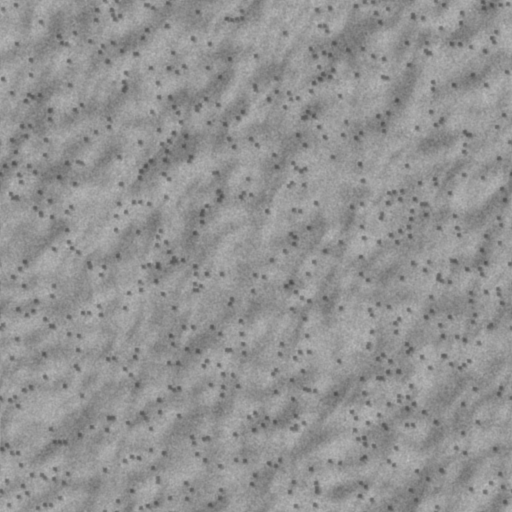
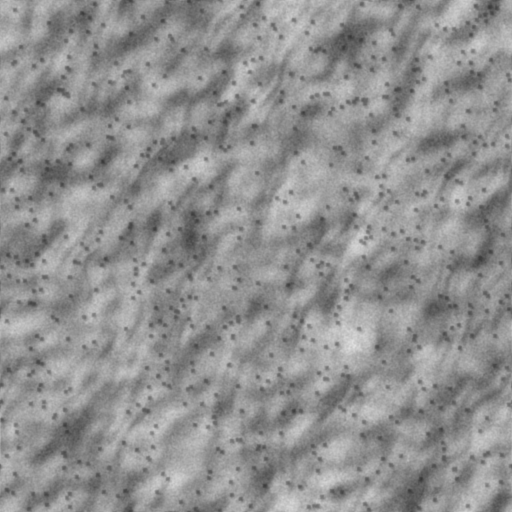
City miniatures: dense street-grid fabric, big central landmark, tighter frame; coastal water band without island halos or deep pockets; smooth coastlines; stronger ground texture
Claude-Session: https://claude.ai/code/session_014nGi4eSs3FWdL2Rsq4Dqkd

diff --git a/app/world/index.html b/app/world/index.html
@@ -79,35 +79,51 @@ async function buildTile(z, tx, ty, C) {
   const c = document.createElement('canvas'); c.width = c.height = C;
   const g = c.getContext('2d', {willReadFrequently: true});
   g.imageSmoothingEnabled = false; g.drawImage(natI, 0, 0, C, C); const nd = g.getImageData(0, 0, C, C).data;
+  // smooth land mask: the id image upscaled with smoothing, so coasts are clean curves, never pixel stairs
+  const N0 = natI.width, mc = document.createElement('canvas'); mc.width = mc.height = N0;
+  const mg = mc.getContext('2d', {willReadFrequently: true}); mg.drawImage(natI, 0, 0);
+  const mi = mg.getImageData(0, 0, N0, N0), md = mi.data;
+  for (let q = 0; q < md.length; q += 4) { const land = md[q] + md[q + 1] > 0; md[q] = md[q + 1] = md[q + 2] = land ? 255 : 0; md[q + 3] = 255; }
+  mg.putImageData(mi, 0, 0);
   g.imageSmoothingEnabled = true; g.imageSmoothingQuality = 'high';
+  g.drawImage(mc, 0, 0, C, C); const ms = g.getImageData(0, 0, C, C).data;
   g.drawImage(lumI, 0, 0, C, C); const ld = g.getImageData(0, 0, C, C).data;
   g.drawImage(bioI, 0, 0, C, C); const bd = g.getImageData(0, 0, C, C).data;
   const out = g.createImageData(C, C), d = out.data;
   const {FN, fl, fa, fv, open, arid, rock, wave, WN} = TEX;
   const gx0 = tx * C, gy0 = ty * C;
   const lut = {};
+  const idAt = (x, y) => { x = Math.max(0, Math.min(C - 1, x)); y = Math.max(0, Math.min(C - 1, y)); const q = (y * C + x) * 4; return nd[q] + nd[q + 1] * 256 - 1; };
   for (let y = 0; y < C; y++) {
     const gy = gy0 + y, fr = (gy % FN) * FN, gr = (gy & 511) * 512, wr = (gy % WN) * WN;
     for (let x = 0; x < C; x++) {
       const q = (y * C + x) * 4, gx = gx0 + x;
-      const n = nd[q] + nd[q + 1] * 256 - 1;
+      const m = ms[q];                                          // 0 sea .. 255 land, soft at the coast
+      let n = nd[q] + nd[q + 1] * 256 - 1;
       const L = ld[q] / 127.5;                                  // 1.0 = no extra light or shade
-      if (n < 0) {                                              // sea: coastal grey-blue or deep blue, ripples, land shadow
-        const base = bd[q] > 127 ? SEA.coast : SEA.deep, k = L * wave[wr + gx % WN];
-        d[q] = base[0] * k; d[q + 1] = base[1] * k; d[q + 2] = base[2] * k; d[q + 3] = 255;
-        continue;
+      let sr = 0, sg = 0, sb = 0;
+      if (m < 170) {                                            // sea: coastal grey-blue or deep blue, ripples, land shadow
+        const base = bd[q] > 127 || m > 0 ? SEA.coast : SEA.deep, k = L * wave[wr + gx % WN];
+        sr = base[0] * k; sg = base[1] * k; sb = base[2] * k;
+        if (m < 86) { d[q] = sr; d[q + 1] = sg; d[q + 2] = sb; d[q + 3] = 255; continue; }
+      }
+      if (n < 0) {                                              // land by the smooth mask but sea by the id image: borrow a neighbour's id
+        for (let r = 1; r < 6 && n < 0; r++) n = Math.max(idAt(x - r, y), idAt(x + r, y), idAt(x, y - r), idAt(x, y + r));
+        if (n < 0) { d[q] = sr; d[q + 1] = sg; d[q + 2] = sb; d[q + 3] = 255; continue; }
       }
       const gi = gr + (gx & 511), ar = bd[q + 1] / 255, rk = bd[q + 2] / 255;
       let v = open[gi] * (1 - ar) + arid[gi] * ar;
       v = v * (1 - rk) + rock[gi] * rk;
       const fi = fr + gx % FN, a = fa[fi];
       if (a) {                                                  // a tree (or its shadow) stands here if the forest is dense enough
-        const dens = bd[q] / 255 * 1.15, tv = fv[fi] / 255;
-        if (tv ? dens > tv : dens > 0.5) { const al = a / 255; v = v * (1 - al) + fl[fi] * al; }
+        const dens = bd[q] / 255, tv = fv[fi] / 255;
+        if (tv ? dens > tv : dens > 0.55) { const al = a / 255; v = v * (1 - al) + fl[fi] * al; }
       }
       const t = lut[n] || (lut[n] = LUT[relOf(n)]);
-      const i = Math.min(255, v * L) * 3;
-      d[q] = t[i | 0]; d[q + 1] = t[(i | 0) + 1]; d[q + 2] = t[(i | 0) + 2]; d[q + 3] = 255;
+      const i = (Math.min(255, v * L) | 0) * 3;
+      if (m >= 170) { d[q] = t[i]; d[q + 1] = t[i + 1]; d[q + 2] = t[i + 2]; }
+      else { const w = (m - 86) / 84; d[q] = sr + (t[i] - sr) * w; d[q + 1] = sg + (t[i + 1] - sg) * w; d[q + 2] = sb + (t[i + 2] - sb) * w; }
+      d[q + 3] = 255;
     }
   }
   g.putImageData(out, 0, 0);

diff --git a/ci/render/citymarks.py b/ci/render/citymarks.py
@@ -13,8 +13,8 @@ src = open(spec.origin).read().split('\nonly = set(')[0]
 G = {'__name__': 'bld', '__file__': spec.origin}
 exec(compile(src, spec.origin, 'exec'), G)
 reset, mat, box, cyl, sphere_cap, gable, Kit, REGIONS = G['reset'], G['mat'], G['box'], G['cyl'], G['sphere_cap'], G['gable'], G['Kit'], G['REGIONS']
-FRAME = 150.0
-ELEV = 52                      # a model on a table: you see roofs and facades
+FRAME = 118.0
+ELEV = 42                      # a model on a table: you see roofs and facades
 
 def cone(x, y, z, r, h, m, verts=16):
     bpy.ops.mesh.primitive_cone_add(vertices=verts, radius1=r, radius2=0.0, depth=h, location=(x, y, z + h / 2))
@@ -60,45 +60,41 @@ def pagoda(k, x, y, s=1.0):
 
 LANDMARK = {'gulf': mosque, 'europe': cathedral, 'americas': capitol, 'asia': pagoda}
 
-def skyline(k, R, rnd, n, hmax, spread, avoid=0):
-    glass = mat((0.42, 0.50, 0.56), 0.25, metal=0.3)
-    for i in range(n):
-        for _ in range(30):
-            a = rnd.random() * 6.283; d = avoid + rnd.random() ** 0.7 * spread
-            x, y = math.cos(a) * d, math.sin(a) * d * 0.9
-            if abs(x) < 70 and abs(y) < 70: break
-        f = 1 - d / (avoid + spread + 1)
-        h = 6 + hmax * f * rnd.uniform(0.5, 1.0)
-        w = rnd.uniform(7, 12); dd = rnd.uniform(7, 12)
-        m = glass if h > 30 and rnd.random() < 0.6 else (k.white if rnd.random() < 0.5 else mat(R['wall'], 0.7))
-        box(x, y, 0, w, dd, h, m, bevel=0.15)
-        if h > 18: box(x, y, h, w * 0.6, dd * 0.6, 1.4, k.white, bevel=0.1)
-
-def houses(k, R, rnd, n, spread, avoid=0):
+def fabric(k, R, rnd, radius, hc, he, clear=0.0, tall_glass=True):
+    """dense city on a street grid: tall in the middle, low at the edge, blocks touching, narrow streets"""
+    glass = mat((0.40, 0.48, 0.54), 0.25, metal=0.3); wall = mat(R['wall'], 0.75); wall2 = mat(R['wall2'], 0.75)
     roof = mat(R['roof'], 0.7)
-    for i in range(n):
-        a = rnd.random() * 6.283; d = avoid + rnd.random() * spread
-        x, y = math.cos(a) * d, math.sin(a) * d * 0.9
-        w, dd = rnd.uniform(6, 10), rnd.uniform(6, 9); h = rnd.uniform(3, 7)
-        rot = rnd.choice((0, 90)) + rnd.uniform(-8, 8)
-        box(x, y, 0, w, dd, h, mat(R['wall'], 0.75), bevel=0.12, rot=rot)
-        if R['roof_kind'] == 'gable': gable(x, y, h, w, dd, 2.6, roof, rot=rot, overhang=0.3)
-    for i in range(n // 2):
-        a = rnd.random() * 6.283; d = avoid + rnd.random() * spread * 1.1
-        k.plant(math.cos(a) * d, math.sin(a) * d * 0.9)
+    lot, street = 9.0, 2.6
+    n = int(radius / lot) + 1
+    for i in range(-n, n + 1):
+        for j in range(-n, n + 1):
+            x, y = i * lot + rnd.uniform(-0.6, 0.6), j * lot + rnd.uniform(-0.6, 0.6)
+            d = math.hypot(x, y) / radius
+            if d > 1 or math.hypot(x, y) < clear: continue
+            if d > 0.75 and rnd.random() < (d - 0.75) * 3: continue          # ragged edge
+            f = (1 - d) ** 1.6
+            h = he + (hc - he) * f * rnd.uniform(0.55, 1.0)
+            w = lot - street - rnd.uniform(0, 1.5); dd = lot - street - rnd.uniform(0, 1.5)
+            if h < 9 and R['roof_kind'] == 'gable':
+                box(x, y, 0, w, dd, h, wall, bevel=0.1); gable(x, y, h, w, dd, 2.4, roof, overhang=0.2)
+            else:
+                m = glass if (tall_glass and h > 26 and rnd.random() < 0.7) else (wall if rnd.random() < 0.6 else wall2)
+                box(x, y, 0, w, dd, h, m, bevel=0.12)
+                if h > 16: box(x, y, h, w * 0.55, dd * 0.55, 1.5, k.white, bevel=0.1)    # roof plant room
+    for _ in range(int(radius * 0.8)):                                     # trees in the street gaps at the edge
+        a = rnd.random() * 6.283; r = radius * rnd.uniform(0.7, 1.05)
+        k.plant(math.cos(a) * r, math.sin(a) * r)
 
 def mark(reg, kind):
     s = reset(); G['MATS'].clear()
     R = REGIONS[reg]; k = Kit(R); rnd = random.Random(hash((reg, kind)) & 0xffff)
     if kind == 'capital':
-        LANDMARK[reg](k, 0, 0, 1.0)
-        skyline(k, R, rnd, 14, 46 if reg != 'europe' else 22, 34, avoid=30)
-        houses(k, R, rnd, 16, 14, avoid=52)
+        LANDMARK[reg](k, 0, 0, 1.25)
+        fabric(k, R, rnd, 48, 40 if reg != 'europe' else 20, 5, clear=24)
     elif kind == 'major':
-        skyline(k, R, rnd, 12, 34 if reg != 'europe' else 16, 30, avoid=0)
-        houses(k, R, rnd, 14, 14, avoid=34)
+        fabric(k, R, rnd, 38, 34 if reg != 'europe' else 18, 4)
     else:
-        houses(k, R, rnd, 13, 26, avoid=0)
+        fabric(k, R, rnd, 24, 8, 3, tall_glass=False)
     cd = bpy.data.cameras.new('cam'); cd.type = 'ORTHO'; cd.ortho_scale = FRAME
     cam = bpy.data.objects.new('cam', cd); s.collection.objects.link(cam); s.camera = cam
     e = math.radians(ELEV); cam.location = (0, -math.cos(e) * 300, math.sin(e) * 300 + 12); cam.rotation_euler = (math.radians(90 - ELEV), 0, 0)

diff --git a/ci/world/textures.py b/ci/world/textures.py
@@ -1,7 +1,6 @@
 # Map ground textures, drawn the way Conflict of Nations paints its land: a top-down illustration lit by one
 # sun from the north-west, in light and dark only (the game colours it per owner), seamless in both directions.
 #   python3 ci/world/textures.py app/world/tex
-# forest.png : rounded tree clumps, lit tops, dark gaps. Alpha = canopy height (used to cut crisp forest edges).
 # open.png   : grass and fields: smooth, quiet, a faint grain.
 # arid.png   : sand and scrub: soft ripples and small dark bushes.
 # rock.png   : bare mountain ground: fine cracked grain.
@@ -36,37 +35,11 @@ def save(name, lum, alpha=None):
     else: Image.fromarray(np.dstack([a, a, a, (np.clip(alpha, 0, 1) * 255).astype(np.uint8)]), 'RGBA').save(os.path.join(OUT, name), optimize=True)
     print('saved', name, round(float(lum.mean()), 3), round(float(lum.std()), 3))
 
-# ---------- forest: rounded crowns gathered in clumps, the clumps standing taller in the middle ----------
+# forest is rendered in Blender (ci/render/forest.py): real 3D crowns
 yy, xx = np.mgrid[0:N, 0:N]
-h = np.zeros((N, N))
-def crown(px, py, r, base):
-    x0, y0 = int(px - r - 1), int(py - r - 1); sz = int(2 * r + 3)
-    ys, xs = np.mgrid[y0:y0 + sz, x0:x0 + sz]
-    d2 = ((xs - px) ** 2 + (ys - py) ** 2) / r ** 2
-    dome = np.where(d2 < 1, (np.clip(1 - d2, 0, 1) ** 0.6) * r * 0.8 + base, -99)
-    iy, ix = ys % N, xs % N
-    h[iy, ix] = np.maximum(h[iy, ix], dome)
-for _ in range(150):                                                   # clumps
-    cx, cy = rng.random(2) * N; sig = rng.uniform(9, 26); n = int(sig * sig * 0.16)
-    for _ in range(n):
-        dx, dy = rng.normal(0, sig, 2); d = np.hypot(dx, dy) / sig
-        crown(cx + dx, cy + dy, rng.uniform(4.5, 8.5) * (1.1 - 0.3 * d), 6 * max(0, 1 - d * 0.7))
-for (px, py) in rng.random((1400, 2)) * N:                             # loose trees between clumps
-    crown(px, py, rng.uniform(3.5, 6), 0)
-h = np.maximum(h, 0)
-hs = ndi.gaussian_filter(h, 1.4, mode='wrap') + wrap_noise(1.0, 3, 2) * 0.10     # soft, painted crowns + leaf grain
-lit = shade(hs, 0.45) ** 1.6
-ao = np.clip(1 - (ndi.gaussian_filter(h, 7, mode='wrap') - h) * 0.12, 0.18, 1) ** 1.3    # dark gaps between crowns
-sh = np.zeros((N, N))
-for k in range(1, 8):                                                  # crowns throw shadows to the south-east
-    sh = np.maximum(sh, np.roll(np.roll(h, k, 0), k, 1) - k * 1.1 - h)
-shadow = np.clip(1 - sh * 0.06, 0.5, 1)
-forest = 0.08 + 0.95 * lit * ao * shadow
-forest = forest * (0.95 + 0.05 * wrap_noise(40, 4, 2))
-save('forest.png', forest, np.clip(h / np.percentile(h, 98), 0, 1))
 
 # ---------- open land: smooth grass, faint field patches and grain ----------
-fields = wrap_noise(60, 5, 2) * 0.018 + wrap_noise(4, 6, 2) * 0.012 + wrap_noise(0.7, 7, 1) * 0.022
+fields = wrap_noise(22, 5, 3) * 0.055 + wrap_noise(5, 6, 2) * 0.022 + wrap_noise(0.7, 7, 1) * 0.025
 openl = 0.62 + fields
 save('open.png', openl)
 
@@ -75,7 +48,7 @@ warp = wrap_noise(25, 8, 2) * 6
 rip = np.sin((xx * 0.7 + yy * 0.35 + warp) * 2 * np.pi / 14) * 0.5 + 0.5
 dune = wrap_noise(30, 9, 3)
 hs = dune * 6 + rip * 0.8
-arid = 0.6 + (shade(hs, 0.8) - 0.6) * 0.18 + wrap_noise(0.8, 10, 1) * 0.02
+arid = 0.6 + (shade(hs, 0.8) - 0.6) * 0.32 + wrap_noise(20, 13, 2) * 0.04 + wrap_noise(0.8, 10, 1) * 0.02
 bush = np.zeros((N, N))
 for (px, py) in rng.random((700, 2)) * N:
     r = rng.uniform(1.2, 2.6)
@@ -88,5 +61,5 @@ save('arid.png', arid)
 
 # ---------- rock: bare mountain ground ----------
 rk = wrap_noise(10, 11, 4) * 2 + np.abs(wrap_noise(3, 12, 2)) * 1.2
-rock = 0.56 + (shade(ndi.gaussian_filter(rk, 1.2, mode='wrap'), 1.4) - 0.6) * 0.22
+rock = 0.56 + (shade(ndi.gaussian_filter(rk, 1.2, mode='wrap'), 1.4) - 0.6) * 0.34
 save('rock.png', rock)

diff --git a/ci/world/build.py b/ci/world/build.py
@@ -454,9 +454,14 @@ if sat:
     # The game paints the ground itself from small textures (forest, fields, desert, rock), crisp at every zoom.
     # coastal water band (sea zones near the coast are lighter grey-blue, open ocean deep blue, hard edge)
     lf8 = lf[::8, ::8]
-    dist8 = ndi.distance_transform_edt(lf8 < 0.5)
-    coast8 = ndi.gaussian_filter((dist8 < 9).astype(np.float32), 2.0)            # about 170 km out, smooth outline
-    del dist8
+    lab8, nl8 = ndi.label(lf8 > 0.5)
+    big8 = np.isin(lab8, np.nonzero(np.bincount(lab8.ravel()) >= 40)[0][1:])      # islands smaller than ~15,000 km2 don't push the band out
+    near = (ndi.distance_transform_edt(~big8) < 13) | (ndi.distance_transform_edt(lf8 < 0.5) < 4)
+    deep = ~near
+    dl, nd_ = ndi.label(deep)
+    deep &= np.isin(dl, np.nonzero(np.bincount(dl.ravel()) >= 900)[0][1:])        # no small deep pockets inside enclosed seas
+    coast8 = ndi.gaussian_filter((~deep).astype(np.float32), 3.0)                 # coastal waters, soft-cornered outline
+    del lab8, dl
     half = np.zeros((H, W), np.uint8); halfb = np.zeros((H // 2, W // 2, 3), np.uint8)
     manifest = {str(z): [] for z in range(5)}
     d4 = os.path.join(OUT, 'tiles', '4'); os.makedirs(d4, exist_ok=True)
